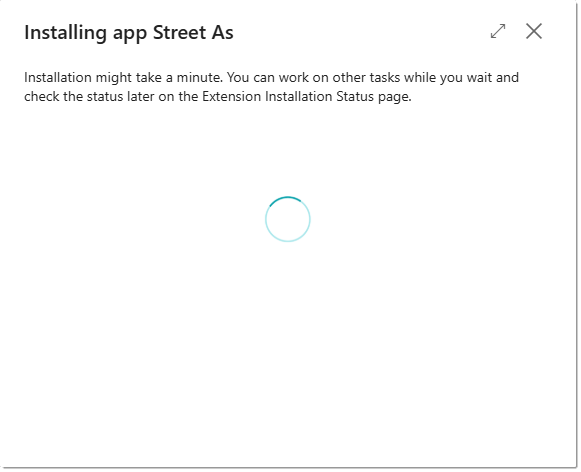
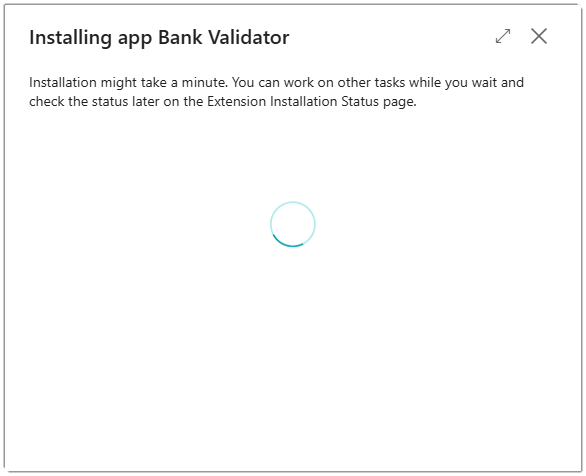
Completed (need 2 images when available)

diff --git a/install-guide.md b/install-guide.md
@@ -32,7 +32,7 @@ page_nav:
 
 ## Unlimited Free Trial in a Sandbox
 
-The best way to get started with Bank Validator is to install it in a Sandbox environment as this will allow you to use the app without restrictions without purchasing or assigning any licenses.
+The best way to get started with Bank Validator is to install it in a Sandbox environment as this will allow you to use the app without restrictions and does not require purchasing or assigning licenses.
 
 Open your Business Central Sandbox environment and use the Alt+Q keypress or click the Search icon in the toolbar to bring up the search dialog which says *Tell me what you want to do* at the top of box. Type *appsource* in the box and you will see an option for **Microsoft AppSource apps**.
 
@@ -78,9 +78,15 @@ If you have SUPER or SUPER (DATA) then you'll be able to run the configuration p
 
 We have used implicit permissions throughout the application to ensure that if a user has access to the pages that show realtime validation of **Bank Branch No.** and **Bank Account No.** fields, they will not require additional configuration or permissions.
 
-If you want to assign a permission set that has the rights to run the **Bank Validator Setup** page and other setup actions, you can use the **BC_BV_ADM** permission set.
+There are three levels of user permissions available.
 
-Note that in a production environment, the **Bank Validation Result** field will only show if a user has a valid license assigned to their user account.
+| Permission Set | Description |
+|----------------|-------------|
+| \<None\>         | A regular user with no special permission sets assigned can view the **Bank Validation Result** field[^1] and use the drill-down on the field to change the **Validation Rule** for a particular account. |
+| BC_BV_USR      | An advanced user can do everything in the extension with the exception of modifying the fields on the **Bank Validator Setup** page. This means they can run the **Validate Bank Accounts** process, refresh the validation rule source data, and review the source data such as NZ Banks, NZ Bank Branches, or AU Bank State Branches. |
+| BC_BV_ADM      | An administrator user can do everything in the extension, including toggling the **Active** field on the **Bank Validator Setup** and changing the **Default Validation Rule**. |
+
+If you want to assign a permission set that has the rights to run the **Bank Validator Setup** page and other setup actions, you can use the **BC_BV_ADM** permission set.
 
 ## Bank Validator Setup
 
@@ -92,9 +98,9 @@ Select the option to launch the **Bank Validator Setup** page. The page will loo
 
 ![Image showing the Bank Validator Setup page.](/screenshots/install/BankValidatorSetup.png)
 
-Use the drop-down to select a **Default Validation Rule**. If your company is Australian, you should select *Australian Bank Validation*. If your company is New Zealand, you should select *New Zealand Bank Validation*. You must select a default validation rule other than *No Validation* to be able to continue.
+Use the drop-down to select a **Default Validation Rule**. If your company is Australian, you should select *Australian Bank Validation*. If your company is a New Zealand company, you should select *New Zealand Bank Validation*. You must select a default validation rule other than *No Validation* to be able to continue.
 
-Once you have selected your default validation rule, click the **Activate** toggle control. You will notice that the **Default Validation Rule** is greyed out and can no longer be changed.
+Once you have selected your default validation rule, click the **Active** toggle control. You will notice that the **Default Validation Rule** is greyed out and can no longer be changed.
 
 The configuration is complete and users will now see the **Bank Validation Result** field on every page that shows a bank account.
 
@@ -124,43 +130,20 @@ The previous image shows the settings for the report to run every Saturday at 3:
 
 ## Assign Licenses
 
-If you didn't click the option from the previous step or you want to assign existing licenses, go to the [Microsoft 365 Admin Center](https://admin.microsoft.com/). Note that external users such as delegated admin agents, help desk agents, and admin partners will be assigned a free license automatically.
+When you're ready to use Bank Validator in your Production environment, you will need to buy and assign at least one license. After you have bought your first license for Bank Validator, you can purchase additional licenses from the [Microsoft 365 Admin Center](https://admin.microsoft.com/#/subscriptions), however for your first license purchase you must use the [Bank Validator page on AppSource](https://appsource.microsoft.com/en-us/product/dynamics-365-business-central/PUBID.bcappslimited1693858041247%7CAID.bank-validator%7CPAPPID.fa1777cb-c986-48cb-8ba4-614e101a63b6?tab=Overview). Navigate to the Bank Validator product page on AppSource and click the **Buy now** button.
 
-![Image showing the Microsoft 365 admin center licenses page.](/screenshots/gettingstarted/StreetAsGettingStartedAssignLicenses.png)
+![Image showing the AppSource page for Bank Validator with the Buy Now button.](/screenshots/install/AppSourceBuyNow.png)
 
-Click the link to open the Street As - Standard license assignment page. You should see the option to assign licenses to a user or to install the product.
+You will be guided through the various steps in order to select a **Plan**, choose **Price + billing**, confirm your **Payment** method, and finally **Complete purchase**. If you made it through these steps, you should see the final screen thanking you for your purchase and offering to take you to the Assign licenses page.
 
-![Image showing the Microsoft 365 admin center assign licenses page.](/screenshots/gettingstarted/StreetAsGettingStartedAssignLicensesAssign.png)
+![Image showing the final step of the license purchase from AppSource](/screenshots/install/AppSourceThankyouForPurchase.png)
 
-Click the **Assign licenses** link to proceed to the next step.
+Note that external users such as delegated admin agents, help desk agents, and admin partners will be assigned a free license automatically.
 
-![Image showing the Microsoft 365 admin center assign licenses to users page.](/screenshots/gettingstarted/StreetAsGettingStartedAssignLicensesAssignUsers.png)
-
-Type the name of the user you want to assign the license to in the search box and with the correct user selected, click the **Assign** button to compete the process. You will be returned to the previous page where you can will see which users have a license assigned. 
-
-![Image showing the Microsoft 365 admin center assign licenses page after the licenses have been assigned.](/screenshots/gettingstarted/StreetAsGettingStartedAssignLicensesAfterAssign.png)
+You can follow the [Microsoft Learn topic on assigning licenses](https://learn.microsoft.com/en-us/microsoft-365/admin/manage/assign-licenses-to-users?view=o365-worldwide) for more details on the steps for applying licenses.
 
 If you wish to purchase more licenses in future for this product, you can do so from within the Microsoft 365 admin center page without needing to visit AppSource. You can trigger the install of the app by clicking the **Install this product** link. The system will sign you in to Business Central and take you to the Extension Installation page.
 
-## Install
-
-![Image showing the Business Central Extension Installation page.](/screenshots/gettingstarted/StreetAsGettingStartedInstallWarning.png)
-
-Click the **Install** button to begin the install. A helpful message showing that the installation is in progress will be displayed and that you can continue working will the extension is installed.
-
-![Image showing the Business Central extension is installing message page.](/screenshots/gettingstarted/StreetAsGettingStartedInstalling.png)
-
-After a short while (assuming you didn't go off and do something else), the system will show you a message telling you that the app is installed.
-
-![Image showing the Business Central extension app is installed message page.](/screenshots/gettingstarted/StreetAsGettingStartedAppIsInstalled.png)
-
-Congratulations! You have successfully installed the app. Let's go ahead and set it up.
-
-
 ---
 
-[^1]: There are currently 66 pages with updated address fields. If you find a page that you would like to be included, please log an issue by clicking the LOG ISSUE link at the top right of this page (a github user account is required to log an issue).
-[^2]: Use the Alt+Q key combination or click on the magnifying glass icon in the top bar to launch the "Tell me what you want to do" search box. The search feature is a little bit smart and you can usually get away with just typing the start of the words you are looking for. I usually just type "Street Setup" to quickly get to the setup screen.
-[^3]: That's right, your first configuration task is going to see if you can correctly identify New Zealand in a list of countries.
-[^4]: Use the Alt+Q key combination or click on the magnifying glass icon in the top bar to launch the "Tell me what you want to do" search box. The search feature is a little bit smart and you can usually get away with just typing the start of the words you are looking for.
-[^5]: The biggest cost is the code-signing certificate. Then there's the domain name, the Microsoft 365 subscription, the template used to make the online help. Not to mention the time invested in building the app and keeping it up to date with the latest versions of Business Central. I feel a sales pitch coming on...  
+[^1]: In a Production environment a user can only see the **Bank Validation Result** field if they have a Bank Validator license assigned to them.
